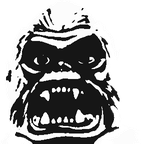
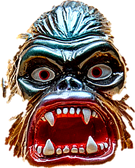
The ape in colour: a clean cut of the photograph at 56px, lifted off the footer with a soft shadow
Claude-Session: https://claude.ai/code/session_019Efxa2VEus8ANAatV1ByAU

diff --git a/wave.html b/wave.html
@@ -18,7 +18,7 @@
 <link rel="preload" href="assets/fonts/geist-400.woff2" as="font" type="font/woff2" crossorigin>
 <link rel="preload" href="assets/fonts/geist-mono-400.woff2" as="font" type="font/woff2" crossorigin>
 <link rel="preload" href="assets/fonts/bricolage-grotesque-200-500.woff2" as="font" type="font/woff2" crossorigin>
-<link rel="stylesheet" href="site.css?v=1790210722">
+<link rel="stylesheet" href="site.css?v=1790211118">
 <style>@media (prefers-reduced-motion: no-preference) { @view-transition { navigation: auto; } }</style>
 <style>
   .cap-note { max-width: var(--col); margin: 0.9rem auto 1.6rem; color: var(--ink-2); font-size: 15.5px; line-height: 1.55; text-align: left; text-wrap: pretty; }
@@ -173,7 +173,7 @@
 <footer class="foot">
   <span class="col">© 2026 Collin Stilwell · Hoboken, NJ</span>
   <span class="links"><a href="https://github.com/stilwellc" target="_blank" rel="noopener">github</a> · <a href="https://www.linkedin.com/in/collin-stilwell/" target="_blank" rel="noopener">linkedin</a> · <a href="resume.html">résumé</a></span>
-  <span class="build"><a href="colophon.html">hand-built · no framework</a><button class="ape" id="ape" type="button" aria-label="The ape. Press him." title="Press him"><img src="assets/ape.png" width="47" height="48" alt=""></button></span>
+  <span class="build"><a href="colophon.html">hand-built · no framework</a><button class="ape" id="ape" type="button" aria-label="The ape. Press him." title="Press him"><img src="assets/ape.png" width="45" height="56" alt=""></button></span>
 </footer>
 <div class="pal" id="pal" hidden role="dialog" aria-modal="true" aria-label="Command palette">
   <div class="pal-box">
@@ -188,6 +188,6 @@
     <div class="keys-grid"></div>
   </div>
 </div>
-<script src="site.js?v=1790210722"></script>
+<script src="site.js?v=1790211118"></script>
 </body>
 </html>

diff --git a/colophon.html b/colophon.html
@@ -18,7 +18,7 @@
 <link rel="preload" href="assets/fonts/geist-400.woff2" as="font" type="font/woff2" crossorigin>
 <link rel="preload" href="assets/fonts/geist-mono-400.woff2" as="font" type="font/woff2" crossorigin>
 <link rel="preload" href="assets/fonts/bricolage-grotesque-200-500.woff2" as="font" type="font/woff2" crossorigin>
-<link rel="stylesheet" href="site.css?v=1790210722">
+<link rel="stylesheet" href="site.css?v=1790211118">
 <style>@media (prefers-reduced-motion: no-preference) { @view-transition { navigation: auto; } }</style>
 
 </head>
@@ -112,7 +112,7 @@
 <footer class="foot">
   <span class="col">© 2026 Collin Stilwell · Hoboken, NJ</span>
   <span class="links"><a href="https://github.com/stilwellc" target="_blank" rel="noopener">github</a> · <a href="https://www.linkedin.com/in/collin-stilwell/" target="_blank" rel="noopener">linkedin</a> · <a href="resume.html">résumé</a></span>
-  <span class="build"><a href="colophon.html">hand-built · no framework</a><button class="ape" id="ape" type="button" aria-label="The ape. Press him." title="Press him"><img src="assets/ape.png" width="47" height="48" alt=""></button></span>
+  <span class="build"><a href="colophon.html">hand-built · no framework</a><button class="ape" id="ape" type="button" aria-label="The ape. Press him." title="Press him"><img src="assets/ape.png" width="45" height="56" alt=""></button></span>
 </footer>
 <div class="pal" id="pal" hidden role="dialog" aria-modal="true" aria-label="Command palette">
   <div class="pal-box">
@@ -127,7 +127,7 @@
     <div class="keys-grid"></div>
   </div>
 </div>
-<script src="site.js?v=1790210722"></script>
+<script src="site.js?v=1790211118"></script>
 <script>
 (function () {
   // the playground: a second engine, fed by the reader

diff --git a/about.html b/about.html
@@ -18,7 +18,7 @@
 <link rel="preload" href="assets/fonts/geist-400.woff2" as="font" type="font/woff2" crossorigin>
 <link rel="preload" href="assets/fonts/geist-mono-400.woff2" as="font" type="font/woff2" crossorigin>
 <link rel="preload" href="assets/fonts/bricolage-grotesque-200-500.woff2" as="font" type="font/woff2" crossorigin>
-<link rel="stylesheet" href="site.css?v=1790210722">
+<link rel="stylesheet" href="site.css?v=1790211118">
 <style>@media (prefers-reduced-motion: no-preference) { @view-transition { navigation: auto; } }</style>
 </head>
 <body>
@@ -127,7 +127,7 @@
 <footer class="foot">
   <span class="col">© 2026 Collin Stilwell · Hoboken, NJ</span>
   <span class="links"><a href="https://github.com/stilwellc" target="_blank" rel="noopener">github</a> · <a href="https://www.linkedin.com/in/collin-stilwell/" target="_blank" rel="noopener">linkedin</a> · <a href="resume.html">résumé</a></span>
-  <span class="build"><a href="colophon.html">hand-built · no framework</a><button class="ape" id="ape" type="button" aria-label="The ape. Press him." title="Press him"><img src="assets/ape.png" width="47" height="48" alt=""></button></span>
+  <span class="build"><a href="colophon.html">hand-built · no framework</a><button class="ape" id="ape" type="button" aria-label="The ape. Press him." title="Press him"><img src="assets/ape.png" width="45" height="56" alt=""></button></span>
 </footer>
 <div class="pal" id="pal" hidden role="dialog" aria-modal="true" aria-label="Command palette">
   <div class="pal-box">
@@ -142,6 +142,6 @@
     <div class="keys-grid"></div>
   </div>
 </div>
-<script src="site.js?v=1790210722"></script>
+<script src="site.js?v=1790211118"></script>
 </body>
 </html>

diff --git a/1122.html b/1122.html
@@ -18,7 +18,7 @@
 <link rel="preload" href="assets/fonts/geist-400.woff2" as="font" type="font/woff2" crossorigin>
 <link rel="preload" href="assets/fonts/geist-mono-400.woff2" as="font" type="font/woff2" crossorigin>
 <link rel="preload" href="assets/fonts/bricolage-grotesque-200-500.woff2" as="font" type="font/woff2" crossorigin>
-<link rel="stylesheet" href="site.css?v=1790210722">
+<link rel="stylesheet" href="site.css?v=1790211118">
 <style>@media (prefers-reduced-motion: no-preference) { @view-transition { navigation: auto; } }</style>
 </head>
 <body>
@@ -97,7 +97,7 @@
 <footer class="foot">
   <span class="col">© 2026 Collin Stilwell · Hoboken, NJ</span>
   <span class="links"><a href="https://github.com/stilwellc" target="_blank" rel="noopener">github</a> · <a href="https://www.linkedin.com/in/collin-stilwell/" target="_blank" rel="noopener">linkedin</a> · <a href="resume.html">résumé</a></span>
-  <span class="build"><a href="colophon.html">hand-built · no framework</a><button class="ape" id="ape" type="button" aria-label="The ape. Press him." title="Press him"><img src="assets/ape.png" width="47" height="48" alt=""></button></span>
+  <span class="build"><a href="colophon.html">hand-built · no framework</a><button class="ape" id="ape" type="button" aria-label="The ape. Press him." title="Press him"><img src="assets/ape.png" width="45" height="56" alt=""></button></span>
 </footer>
 <div class="pal" id="pal" hidden role="dialog" aria-modal="true" aria-label="Command palette">
   <div class="pal-box">
@@ -112,6 +112,6 @@
     <div class="keys-grid"></div>
   </div>
 </div>
-<script src="site.js?v=1790210722"></script>
+<script src="site.js?v=1790211118"></script>
 </body>
 </html>

diff --git a/digital.html b/digital.html
@@ -18,7 +18,7 @@
 <link rel="preload" href="assets/fonts/geist-400.woff2" as="font" type="font/woff2" crossorigin>
 <link rel="preload" href="assets/fonts/geist-mono-400.woff2" as="font" type="font/woff2" crossorigin>
 <link rel="preload" href="assets/fonts/bricolage-grotesque-200-500.woff2" as="font" type="font/woff2" crossorigin>
-<link rel="stylesheet" href="site.css?v=1790210722">
+<link rel="stylesheet" href="site.css?v=1790211118">
 <style>@media (prefers-reduced-motion: no-preference) { @view-transition { navigation: auto; } }</style>
 </head>
 <body>
@@ -90,7 +90,7 @@
 <footer class="foot">
   <span class="col">© 2026 Collin Stilwell · Hoboken, NJ</span>
   <span class="links"><a href="https://github.com/stilwellc" target="_blank" rel="noopener">github</a> · <a href="https://www.linkedin.com/in/collin-stilwell/" target="_blank" rel="noopener">linkedin</a> · <a href="resume.html">résumé</a></span>
-  <span class="build"><a href="colophon.html">hand-built · no framework</a><button class="ape" id="ape" type="button" aria-label="The ape. Press him." title="Press him"><img src="assets/ape.png" width="47" height="48" alt=""></button></span>
+  <span class="build"><a href="colophon.html">hand-built · no framework</a><button class="ape" id="ape" type="button" aria-label="The ape. Press him." title="Press him"><img src="assets/ape.png" width="45" height="56" alt=""></button></span>
 </footer>
 <div class="pal" id="pal" hidden role="dialog" aria-modal="true" aria-label="Command palette">
   <div class="pal-box">
@@ -105,6 +105,6 @@
     <div class="keys-grid"></div>
   </div>
 </div>
-<script src="site.js?v=1790210722"></script>
+<script src="site.js?v=1790211118"></script>
 </body>
 </html>

diff --git a/404.html b/404.html
@@ -11,7 +11,7 @@
 <link rel="preload" href="assets/fonts/geist-400.woff2" as="font" type="font/woff2" crossorigin>
 <link rel="preload" href="assets/fonts/geist-mono-400.woff2" as="font" type="font/woff2" crossorigin>
 <link rel="preload" href="assets/fonts/bricolage-grotesque-200-500.woff2" as="font" type="font/woff2" crossorigin>
-<link rel="stylesheet" href="site.css?v=1790210722">
+<link rel="stylesheet" href="site.css?v=1790211118">
 <style>@media (prefers-reduced-motion: no-preference) { @view-transition { navigation: auto; } }</style>
 </head>
 <body>
@@ -32,7 +32,7 @@
 <footer class="foot">
   <span class="col">© 2026 Collin Stilwell · Hoboken, NJ</span>
   <span class="links"><a href="https://github.com/stilwellc" target="_blank" rel="noopener">github</a> · <a href="https://www.linkedin.com/in/collin-stilwell/" target="_blank" rel="noopener">linkedin</a> · <a href="resume.html">résumé</a></span>
-  <span class="build"><a href="colophon.html">hand-built · no framework</a><button class="ape" id="ape" type="button" aria-label="The ape. Press him." title="Press him"><img src="assets/ape.png" width="47" height="48" alt=""></button></span>
+  <span class="build"><a href="colophon.html">hand-built · no framework</a><button class="ape" id="ape" type="button" aria-label="The ape. Press him." title="Press him"><img src="assets/ape.png" width="45" height="56" alt=""></button></span>
 </footer>
 <div class="pal" id="pal" hidden role="dialog" aria-modal="true" aria-label="Command palette">
   <div class="pal-box">
@@ -47,6 +47,6 @@
     <div class="keys-grid"></div>
   </div>
 </div>
-<script src="site.js?v=1790210722"></script>
+<script src="site.js?v=1790211118"></script>
 </body>
 </html>

diff --git a/physical.html b/physical.html
@@ -18,7 +18,7 @@
 <link rel="preload" href="assets/fonts/geist-400.woff2" as="font" type="font/woff2" crossorigin>
 <link rel="preload" href="assets/fonts/geist-mono-400.woff2" as="font" type="font/woff2" crossorigin>
 <link rel="preload" href="assets/fonts/bricolage-grotesque-200-500.woff2" as="font" type="font/woff2" crossorigin>
-<link rel="stylesheet" href="site.css?v=1790210722">
+<link rel="stylesheet" href="site.css?v=1790211118">
 <style>@media (prefers-reduced-motion: no-preference) { @view-transition { navigation: auto; } }</style>
 </head>
 <body>
@@ -48,7 +48,7 @@
 <footer class="foot">
   <span class="col">© 2026 Collin Stilwell · Hoboken, NJ</span>
   <span class="links"><a href="https://github.com/stilwellc" target="_blank" rel="noopener">github</a> · <a href="https://www.linkedin.com/in/collin-stilwell/" target="_blank" rel="noopener">linkedin</a> · <a href="resume.html">résumé</a></span>
-  <span class="build"><a href="colophon.html">hand-built · no framework</a><button class="ape" id="ape" type="button" aria-label="The ape. Press him." title="Press him"><img src="assets/ape.png" width="47" height="48" alt=""></button></span>
+  <span class="build"><a href="colophon.html">hand-built · no framework</a><button class="ape" id="ape" type="button" aria-label="The ape. Press him." title="Press him"><img src="assets/ape.png" width="45" height="56" alt=""></button></span>
 </footer>
 <div class="pal" id="pal" hidden role="dialog" aria-modal="true" aria-label="Command palette">
   <div class="pal-box">
@@ -63,6 +63,6 @@
     <div class="keys-grid"></div>
   </div>
 </div>
-<script src="site.js?v=1790210722"></script>
+<script src="site.js?v=1790211118"></script>
 </body>
 </html>

diff --git a/prints.html b/prints.html
@@ -18,7 +18,7 @@
 <link rel="preload" href="assets/fonts/geist-400.woff2" as="font" type="font/woff2" crossorigin>
 <link rel="preload" href="assets/fonts/geist-mono-400.woff2" as="font" type="font/woff2" crossorigin>
 <link rel="preload" href="assets/fonts/bricolage-grotesque-200-500.woff2" as="font" type="font/woff2" crossorigin>
-<link rel="stylesheet" href="site.css?v=1790210722">
+<link rel="stylesheet" href="site.css?v=1790211118">
 <style>@media (prefers-reduced-motion: no-preference) { @view-transition { navigation: auto; } }</style>
 </head>
 <body>
@@ -77,7 +77,7 @@
 <footer class="foot">
   <span class="col">© 2026 Collin Stilwell · Hoboken, NJ</span>
   <span class="links"><a href="https://github.com/stilwellc" target="_blank" rel="noopener">github</a> · <a href="https://www.linkedin.com/in/collin-stilwell/" target="_blank" rel="noopener">linkedin</a> · <a href="resume.html">résumé</a></span>
-  <span class="build"><a href="colophon.html">hand-built · no framework</a><button class="ape" id="ape" type="button" aria-label="The ape. Press him." title="Press him"><img src="assets/ape.png" width="47" height="48" alt=""></button></span>
+  <span class="build"><a href="colophon.html">hand-built · no framework</a><button class="ape" id="ape" type="button" aria-label="The ape. Press him." title="Press him"><img src="assets/ape.png" width="45" height="56" alt=""></button></span>
 </footer>
 <div class="pal" id="pal" hidden role="dialog" aria-modal="true" aria-label="Command palette">
   <div class="pal-box">
@@ -92,6 +92,6 @@
     <div class="keys-grid"></div>
   </div>
 </div>
-<script src="site.js?v=1790210722"></script>
+<script src="site.js?v=1790211118"></script>
 </body>
 </html>

diff --git a/security.html b/security.html
@@ -18,7 +18,7 @@
 <link rel="preload" href="assets/fonts/geist-400.woff2" as="font" type="font/woff2" crossorigin>
 <link rel="preload" href="assets/fonts/geist-mono-400.woff2" as="font" type="font/woff2" crossorigin>
 <link rel="preload" href="assets/fonts/bricolage-grotesque-200-500.woff2" as="font" type="font/woff2" crossorigin>
-<link rel="stylesheet" href="site.css?v=1790210722">
+<link rel="stylesheet" href="site.css?v=1790211118">
 <style>@media (prefers-reduced-motion: no-preference) { @view-transition { navigation: auto; } }</style>
 </head>
 <body>
@@ -70,7 +70,7 @@
 <footer class="foot">
   <span class="col">© 2026 Collin Stilwell · Hoboken, NJ</span>
   <span class="links"><a href="https://github.com/stilwellc" target="_blank" rel="noopener">github</a> · <a href="https://www.linkedin.com/in/collin-stilwell/" target="_blank" rel="noopener">linkedin</a> · <a href="resume.html">résumé</a></span>
-  <span class="build"><a href="colophon.html">hand-built · no framework</a><button class="ape" id="ape" type="button" aria-label="The ape. Press him." title="Press him"><img src="assets/ape.png" width="47" height="48" alt=""></button></span>
+  <span class="build"><a href="colophon.html">hand-built · no framework</a><button class="ape" id="ape" type="button" aria-label="The ape. Press him." title="Press him"><img src="assets/ape.png" width="45" height="56" alt=""></button></span>
 </footer>
 <div class="pal" id="pal" hidden role="dialog" aria-modal="true" aria-label="Command palette">
   <div class="pal-box">
@@ -85,6 +85,6 @@
     <div class="keys-grid"></div>
   </div>
 </div>
-<script src="site.js?v=1790210722"></script>
+<script src="site.js?v=1790211118"></script>
 </body>
 </html>

diff --git a/writing.html b/writing.html
@@ -18,7 +18,7 @@
 <link rel="preload" href="assets/fonts/geist-400.woff2" as="font" type="font/woff2" crossorigin>
 <link rel="preload" href="assets/fonts/geist-mono-400.woff2" as="font" type="font/woff2" crossorigin>
 <link rel="preload" href="assets/fonts/bricolage-grotesque-200-500.woff2" as="font" type="font/woff2" crossorigin>
-<link rel="stylesheet" href="site.css?v=1790210722">
+<link rel="stylesheet" href="site.css?v=1790211118">
 <style>@media (prefers-reduced-motion: no-preference) { @view-transition { navigation: auto; } }</style>
 </head>
 <body>
@@ -46,7 +46,7 @@
 <footer class="foot">
   <span class="col">© 2026 Collin Stilwell · Hoboken, NJ</span>
   <span class="links"><a href="https://github.com/stilwellc" target="_blank" rel="noopener">github</a> · <a href="https://www.linkedin.com/in/collin-stilwell/" target="_blank" rel="noopener">linkedin</a> · <a href="resume.html">résumé</a></span>
-  <span class="build"><a href="colophon.html">hand-built · no framework</a><button class="ape" id="ape" type="button" aria-label="The ape. Press him." title="Press him"><img src="assets/ape.png" width="47" height="48" alt=""></button></span>
+  <span class="build"><a href="colophon.html">hand-built · no framework</a><button class="ape" id="ape" type="button" aria-label="The ape. Press him." title="Press him"><img src="assets/ape.png" width="45" height="56" alt=""></button></span>
 </footer>
 <div class="pal" id="pal" hidden role="dialog" aria-modal="true" aria-label="Command palette">
   <div class="pal-box">
@@ -61,6 +61,6 @@
     <div class="keys-grid"></div>
   </div>
 </div>
-<script src="site.js?v=1790210722"></script>
+<script src="site.js?v=1790211118"></script>
 </body>
 </html>

diff --git a/github.html b/github.html
@@ -18,7 +18,7 @@
 <link rel="preload" href="assets/fonts/geist-400.woff2" as="font" type="font/woff2" crossorigin>
 <link rel="preload" href="assets/fonts/geist-mono-400.woff2" as="font" type="font/woff2" crossorigin>
 <link rel="preload" href="assets/fonts/bricolage-grotesque-200-500.woff2" as="font" type="font/woff2" crossorigin>
-<link rel="stylesheet" href="site.css?v=1790210722">
+<link rel="stylesheet" href="site.css?v=1790211118">
 <style>@media (prefers-reduced-motion: no-preference) { @view-transition { navigation: auto; } }</style>
 <style>
 
@@ -107,7 +107,7 @@
 <footer class="foot">
   <span class="col">© 2026 Collin Stilwell · Hoboken, NJ</span>
   <span class="links"><a href="https://github.com/stilwellc" target="_blank" rel="noopener">github</a> · <a href="https://www.linkedin.com/in/collin-stilwell/" target="_blank" rel="noopener">linkedin</a> · <a href="resume.html">résumé</a></span>
-  <span class="build"><a href="colophon.html">hand-built · no framework</a><button class="ape" id="ape" type="button" aria-label="The ape. Press him." title="Press him"><img src="assets/ape.png" width="47" height="48" alt=""></button></span>
+  <span class="build"><a href="colophon.html">hand-built · no framework</a><button class="ape" id="ape" type="button" aria-label="The ape. Press him." title="Press him"><img src="assets/ape.png" width="45" height="56" alt=""></button></span>
 </footer>
 <div class="pal" id="pal" hidden role="dialog" aria-modal="true" aria-label="Command palette">
   <div class="pal-box">
@@ -122,6 +122,6 @@
     <div class="keys-grid"></div>
   </div>
 </div>
-<script src="site.js?v=1790210722"></script>
+<script src="site.js?v=1790211118"></script>
 </body>
 </html>

diff --git a/lectr.html b/lectr.html
@@ -18,7 +18,7 @@
 <link rel="preload" href="assets/fonts/geist-400.woff2" as="font" type="font/woff2" crossorigin>
 <link rel="preload" href="assets/fonts/geist-mono-400.woff2" as="font" type="font/woff2" crossorigin>
 <link rel="preload" href="assets/fonts/bricolage-grotesque-200-500.woff2" as="font" type="font/woff2" crossorigin>
-<link rel="stylesheet" href="site.css?v=1790210722">
+<link rel="stylesheet" href="site.css?v=1790211118">
 <style>@media (prefers-reduced-motion: no-preference) { @view-transition { navigation: auto; } }</style>
 
 </head>
@@ -139,7 +139,7 @@
 <footer class="foot">
   <span class="col">© 2026 Collin Stilwell · Hoboken, NJ</span>
   <span class="links"><a href="https://github.com/stilwellc" target="_blank" rel="noopener">github</a> · <a href="https://www.linkedin.com/in/collin-stilwell/" target="_blank" rel="noopener">linkedin</a> · <a href="resume.html">résumé</a></span>
-  <span class="build"><a href="colophon.html">hand-built · no framework</a><button class="ape" id="ape" type="button" aria-label="The ape. Press him." title="Press him"><img src="assets/ape.png" width="47" height="48" alt=""></button></span>
+  <span class="build"><a href="colophon.html">hand-built · no framework</a><button class="ape" id="ape" type="button" aria-label="The ape. Press him." title="Press him"><img src="assets/ape.png" width="45" height="56" alt=""></button></span>
 </footer>
 <div class="pal" id="pal" hidden role="dialog" aria-modal="true" aria-label="Command palette">
   <div class="pal-box">
@@ -154,6 +154,6 @@
     <div class="keys-grid"></div>
   </div>
 </div>
-<script src="site.js?v=1790210722"></script>
+<script src="site.js?v=1790211118"></script>
 </body>
 </html>
